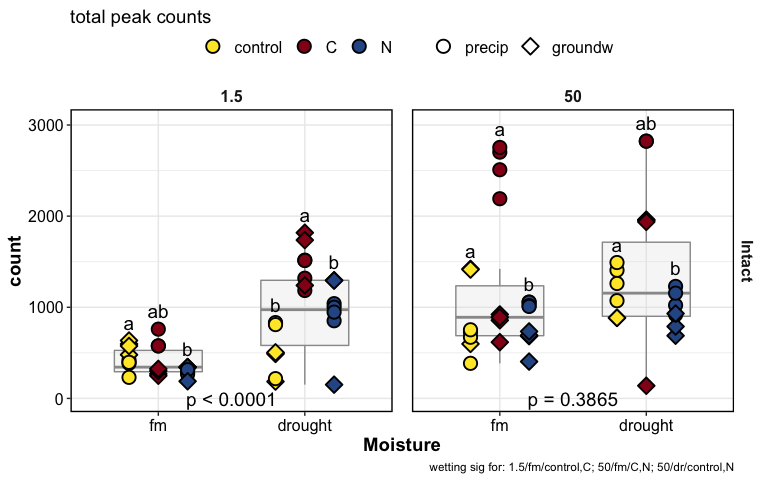
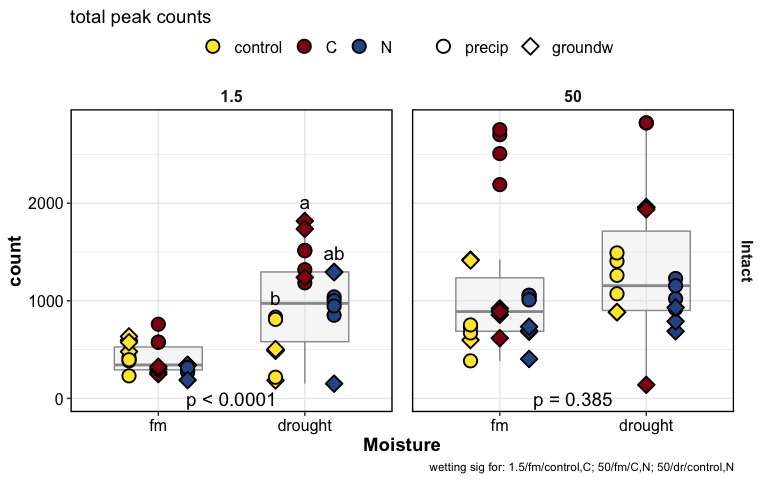
fix fticr scatter plots. only include total counts and intact cores.

diff --git a/reports/fticr_drake_md_report.md b/reports/fticr_drake_md_report.md
@@ -359,11 +359,10 @@ Date run: 2020-09-14
     #> [1] stats     graphics  grDevices utils     datasets  methods   base     
     #> 
     #> other attached packages:
-    #>  [1] lme4_1.1-23      Matrix_1.2-18    visNetwork_2.0.9 vegan_2.5-6     
-    #>  [5] lattice_0.20-41  permute_0.9-5    rmarkdown_2.3    here_0.1        
-    #>  [9] patchwork_1.0.1  car_3.0-9        carData_3.0-4    drake_7.12.4    
-    #> [13] ggbiplot_0.55    PNWColors_0.1.0  forcats_0.5.0    stringr_1.4.0   
-    #> [17] dplyr_1.0.1      purrr_0.3.4      readr_1.3.1      tidyr_1.1.1     
+    #>  [1] lme4_1.1-23      Matrix_1.2-18    visNetwork_2.0.9 vegan_2.5-6      lattice_0.20-41 
+    #>  [6] permute_0.9-5    rmarkdown_2.3    here_0.1         patchwork_1.0.1  car_3.0-9       
+    #> [11] carData_3.0-4    drake_7.12.4     ggbiplot_0.55    PNWColors_0.1.0  forcats_0.5.0   
+    #> [16] stringr_1.4.0    dplyr_1.0.1      purrr_0.3.4      readr_1.3.1      tidyr_1.1.1     
     #> [21] tibble_3.0.3     ggplot2_3.3.2    tidyverse_1.3.0 
     #> 
     #> loaded via a namespace (and not attached):
